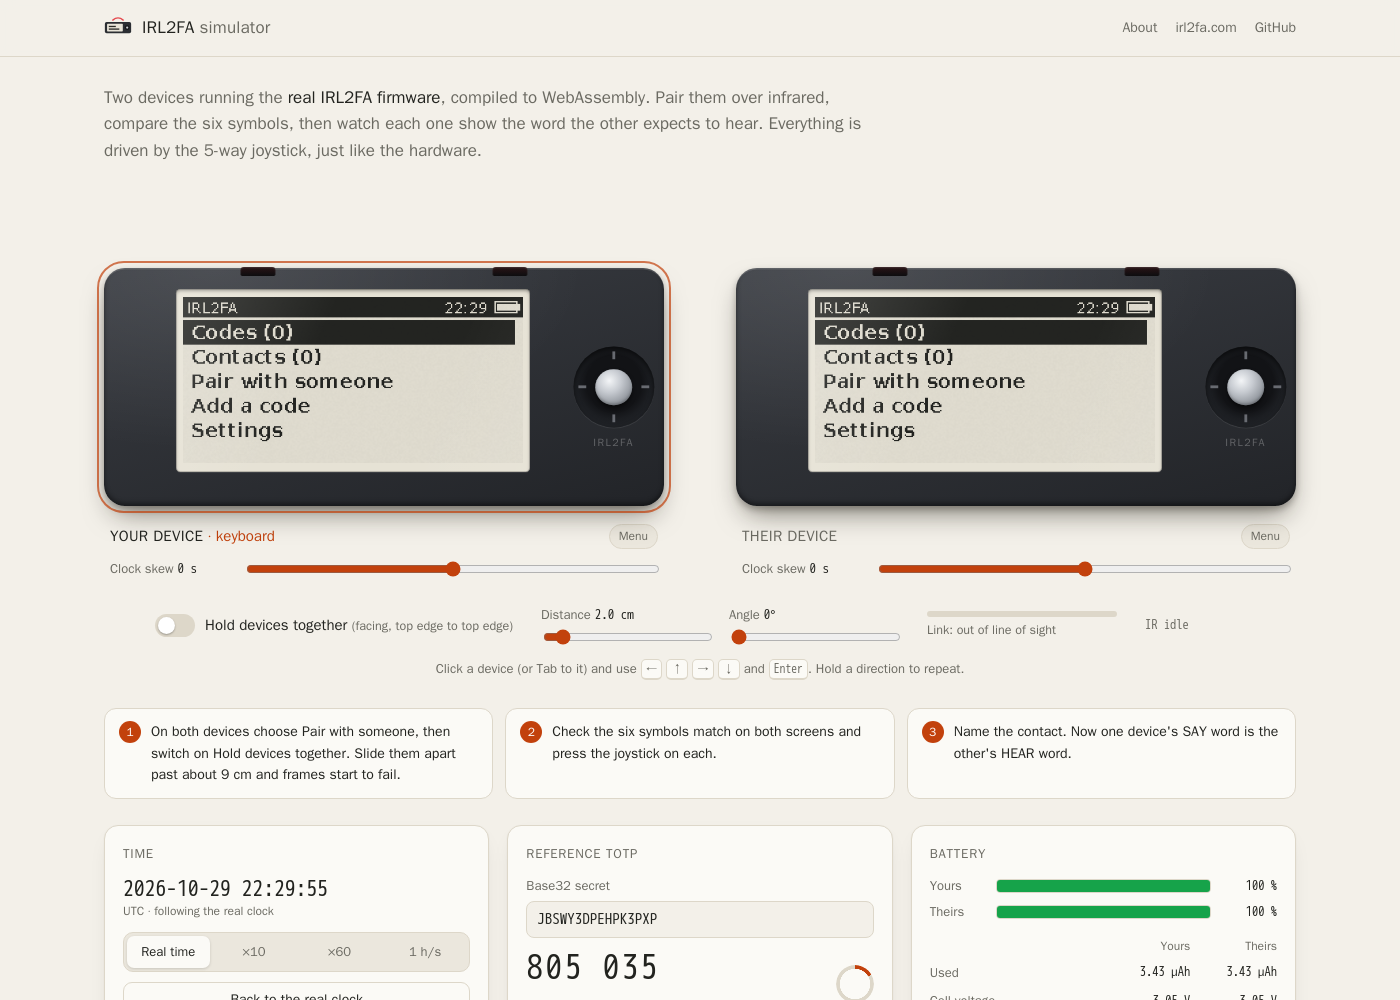
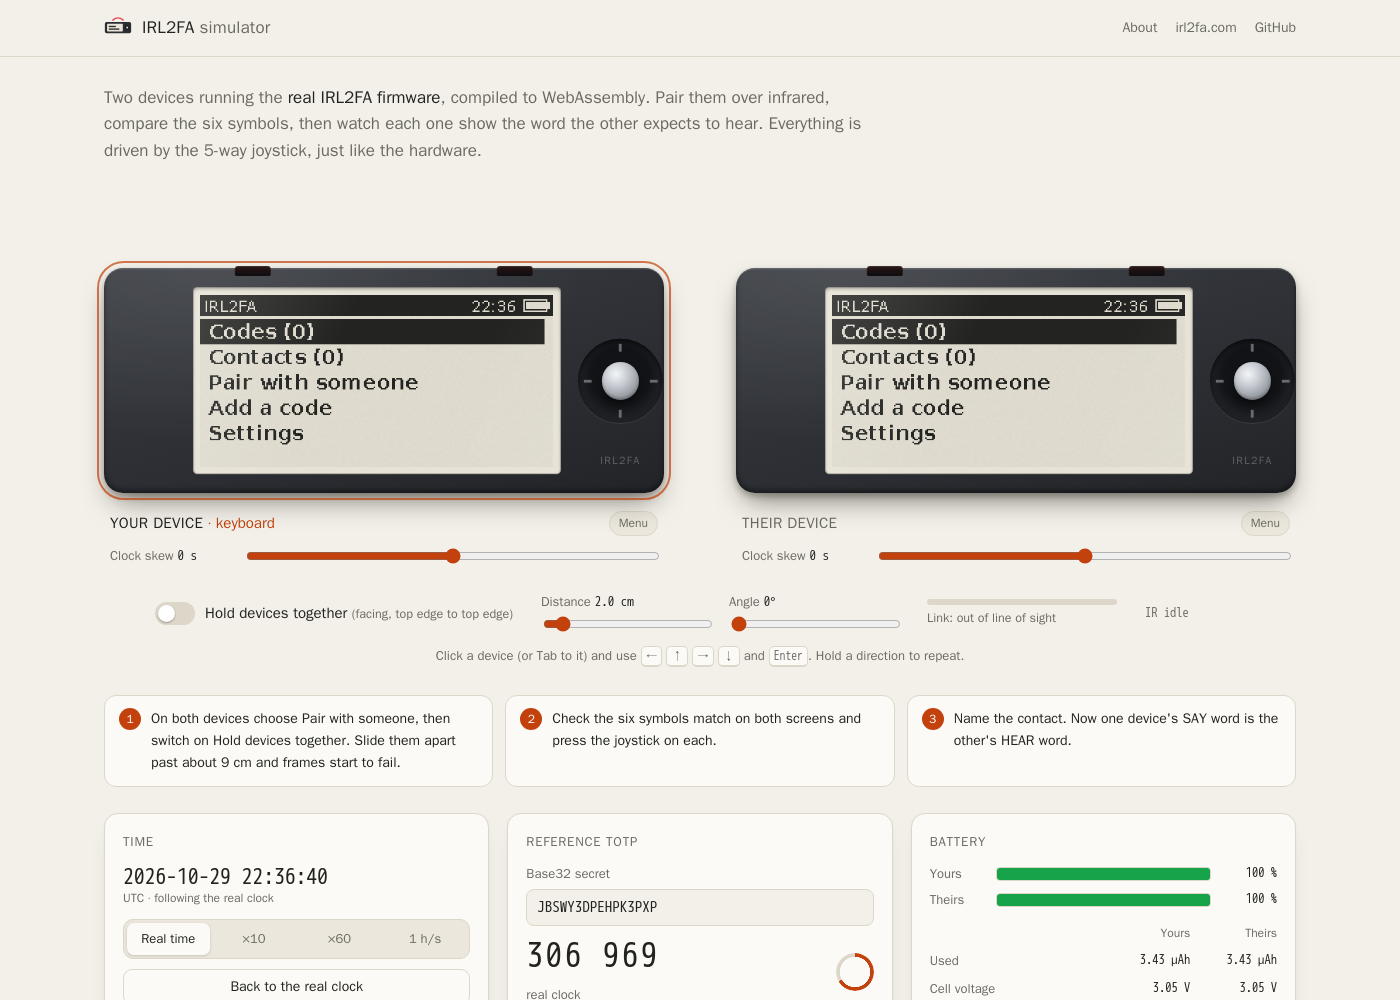
Simulator at the 77 x 31 mm board size; measured battery life in the docs
Draws the device to the smaller board's geometry (hardware/board.yaml:
display, joystick and IR window positions), retakes the screenshots, and
replaces the old 3.7 / 2.1 year figures in the README, release notes,
hardware options and design review with the measured 2.2 / 1.3 years.

diff --git a/README.md b/README.md
@@ -80,7 +80,7 @@ It behaves like the hardware, not just like the firmware:
 | Clock | Micro Crystal RV-3032-C7, temperature-compensated ±2.5 ppm |
 | Input | Alps SKRHABE010 5-way switch, the only control |
 | Pairing | 940 nm side-looking IR LED and phototransistor on the top edge |
-| Power | CR2450 coin cell. **About 3.7 years typical, 2.1 years worst case** at 20 uses a day ([calculation](docs/power-calculations.md)) |
+| Power | CR2450 coin cell. **About 2.2 years typical, 1.3 years worst case** at 20 uses a day, with the awake time and refreshes measured on the emulated firmware ([calculation](docs/power-calculations.md)) |
 | Board | 77 × 31 mm, 2 layers, 0.8 mm, ENIG. JLCPCB can assemble every part except the display |
 | Case | 80.9 × 34.9 × 11.0 mm, 3D-printed in 4 parts, M2 screws |
 

diff --git a/docs/hardware-options.md b/docs/hardware-options.md
@@ -72,8 +72,8 @@ by the 59×29 mm glass, not by the cell. See [power-calculations.md](power-calcu
 
 | Cell | Capacity | Device thickness | Life (normal use, typical / worst) |
 |-|-|-|-|
-| CR2032 | 225 mAh | ~9.2 mm | ~1.6 / 0.9 years (worst case misses the 1-year goal) |
-| **CR2450** ✔ | 540 mAh usable | **11.0 mm** (case model) | **3.7 / 2.1 years** |
+| CR2032 | 225 mAh | ~9.2 mm | ~0.9 / 0.6 years (misses the 1-year goal) |
+| **CR2450** ✔ | 540 mAh usable | **11.0 mm** (case model) | **2.2 / 1.3 years** |
 | AAA + boost converter | ~1100 mAh | ~15-16 mm | longer, but thicker and needs a boost converter. Alkaline cells leak. |
 
 ### Battery holder

diff --git a/docs/release-notes.md b/docs/release-notes.md
@@ -22,7 +22,7 @@ this as a prototype release and please [file a build report](https://github.com/
 - **Hardware.**
   - STM32U083 MCU, 2.13″ 250×122 e-paper (Good Display GDEY0213B74), RV-3032 temperature-compensated RTC.
   - Alps 5-way joystick, IR pairing link, CR2450 cell.
-  - About 3.7 years typical battery life at 20 uses a day.
+  - About 2.2 years typical (1.3 worst case) battery life at 20 uses a day, measured on the emulated firmware.
 - **Firmware.**
   - Person-to-person verification words.
   - In-person IR pairing: X25519 with commit/reveal and a 6-symbol comparison string.

diff --git a/docs/design-review.md b/docs/design-review.md
@@ -86,7 +86,7 @@ alone.
 
 **Fix:** the device sleeps and draws nothing on screen until you press the
 joystick. It refreshes only while you are looking at it, and blanks to a
-neutral sleep screen afterwards. Result: about 3.7 years typical (2.1 worst case) on a CR2450 at 20 uses a day
+neutral sleep screen afterwards. Result: about 2.2 years typical (1.3 worst case) on a CR2450 at 20 uses a day, as measured on the emulated firmware
 ([power-calculations.md](power-calculations.md)).
 
 ### 6. Clock drift was not considered
